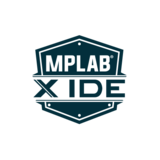
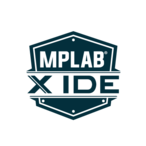
fixed some layout issues

Changed region(s): [[0.1644, 0.1918, 0.8219, 0.8219]]

diff --git a/_includes/css/custom.css b/_includes/css/custom.css
@@ -643,11 +643,11 @@ pre.highlight {
 
 .shadowed {
   max-height: 100px;
-  margin-top: 40px;
+  margin-top: 20px;
   top: 50%;
   transform: translate(0, -50%);
 	filter: "progid:DXImageTransform.Microsoft.Dropshadow(OffX=0, OffY=0, Color='#fff')";
 	filter: url(#drop-shadow);
-	-webkit-filter: drop-shadow(0px 0px 4px rgba(255, 255, 255, 1));
-	filter: drop-shadow(0px 0px 4px rgba(255, 255, 255, 1));
+	-webkit-filter: drop-shadow(0px 0px 3px rgba(255, 255, 255, 1));
+	filter: drop-shadow(0px 0px 3px rgba(255, 255, 255, 1));
 }

diff --git a/_posts/portfolio/2020-01-29-pixar-lamp.md b/_posts/portfolio/2020-01-29-pixar-lamp.md
@@ -31,4 +31,4 @@ In this project, my partner and I built both the hardware and software for a soc
 
 ### Challenges and Accomplishments
 
-This project was done on a tight timeline of 4 weeks. There were many functionalities that had to be built from the ground up, such as motion control, face tracking, and interactive behavior. This was made more difficult by the fact that the computation was heavily restricted to a Raspberry Pi. Our development process consisted of building each modular function separately and tested in an isolated routine, then integrating the functionalities one-by-one. In the end, we built a multi-threaded python application, structured like an operating system to simultaneously handle multiple external signals. In terms of hardware, it was all custom built, and thankfully most of the robot arm was available from another ongoing project. However, it still required some design ingenuity to package the components elegantly, and for the entire module to come together as an interactive display. The website that we built to summarize the project in report form can be found <a href="https://courses.ece.cornell.edu/ece5990/ECE5725_Fall2019_Projects/Dec_04_Demo/Pixar_Lamp/Website/index.html#" target="_blank">here</a>.
+This project was done on a tight timeline of 4 weeks. There were many functionalities that had to be built from the ground up, such as motion control, face tracking, and interactive behavior. This was made more difficult by the fact that the computation was heavily restricted to a Raspberry Pi. Our development process consisted of building each modular function separately and tested in an isolated routine, then integrating the functionalities one-by-one. In the end, we built a multi-threaded python application, structured like an operating system to simultaneously handle multiple external signals. In terms of hardware, it was all custom built, and thankfully most of the robot arm was available from another ongoing project. However, it still required some design ingenuity to package the components elegantly, and for the entire module to come together as an interactive display. The website that we built to summarize the project in report form can be found <a href="https://courses.ece.cornell.edu/ece5990/ECE5725_Fall2019_Projects/Dec_04_Demo/Pixar_Lamp/Website/index.html#" style="color: #a83232" target="_blank">here</a>.

diff --git a/_posts/portfolio/2020-01-30-open-amr.md b/_posts/portfolio/2020-01-30-open-amr.md
@@ -35,4 +35,4 @@ Master of Engineering project, an open source custom mobile robot platform, with
 
 ### Challenges and Accomplishments
 
-In addition to all the technical challenges of developing a power-dense, small-form-factor, stepper-driven robot with intelligent abilities from scratch, this project also entailed leading a team of four other engineers. This required weekly meetings, task delegations, extensive planning and integration of design progress. The effort combined mechanical, electrical and software engineering into a usable final product. While the software portion is still under development, the hardware aspect is mostly complete. Currently, I am still contributing to this project, with the goal of making it into a functional robot vacuum. The fully open source, Github project can be found <a href="https://github.com/Open-AMR " target="_blank">here</a>.
+In addition to all the technical challenges of developing a power-dense, small-form-factor, stepper-driven robot with intelligent abilities from scratch, this project also entailed leading a team of four other engineers. This required weekly meetings, task delegations, extensive planning and integration of design progress. The effort combined mechanical, electrical and software engineering into a usable final product. While the software portion is still under development, the hardware aspect is mostly complete. Currently, I am still contributing to this project, with the goal of making it into a functional robot vacuum. The fully open source, Github project can be found <a href="https://github.com/Open-AMR " style="color: #a83232" target="_blank">here</a>.
